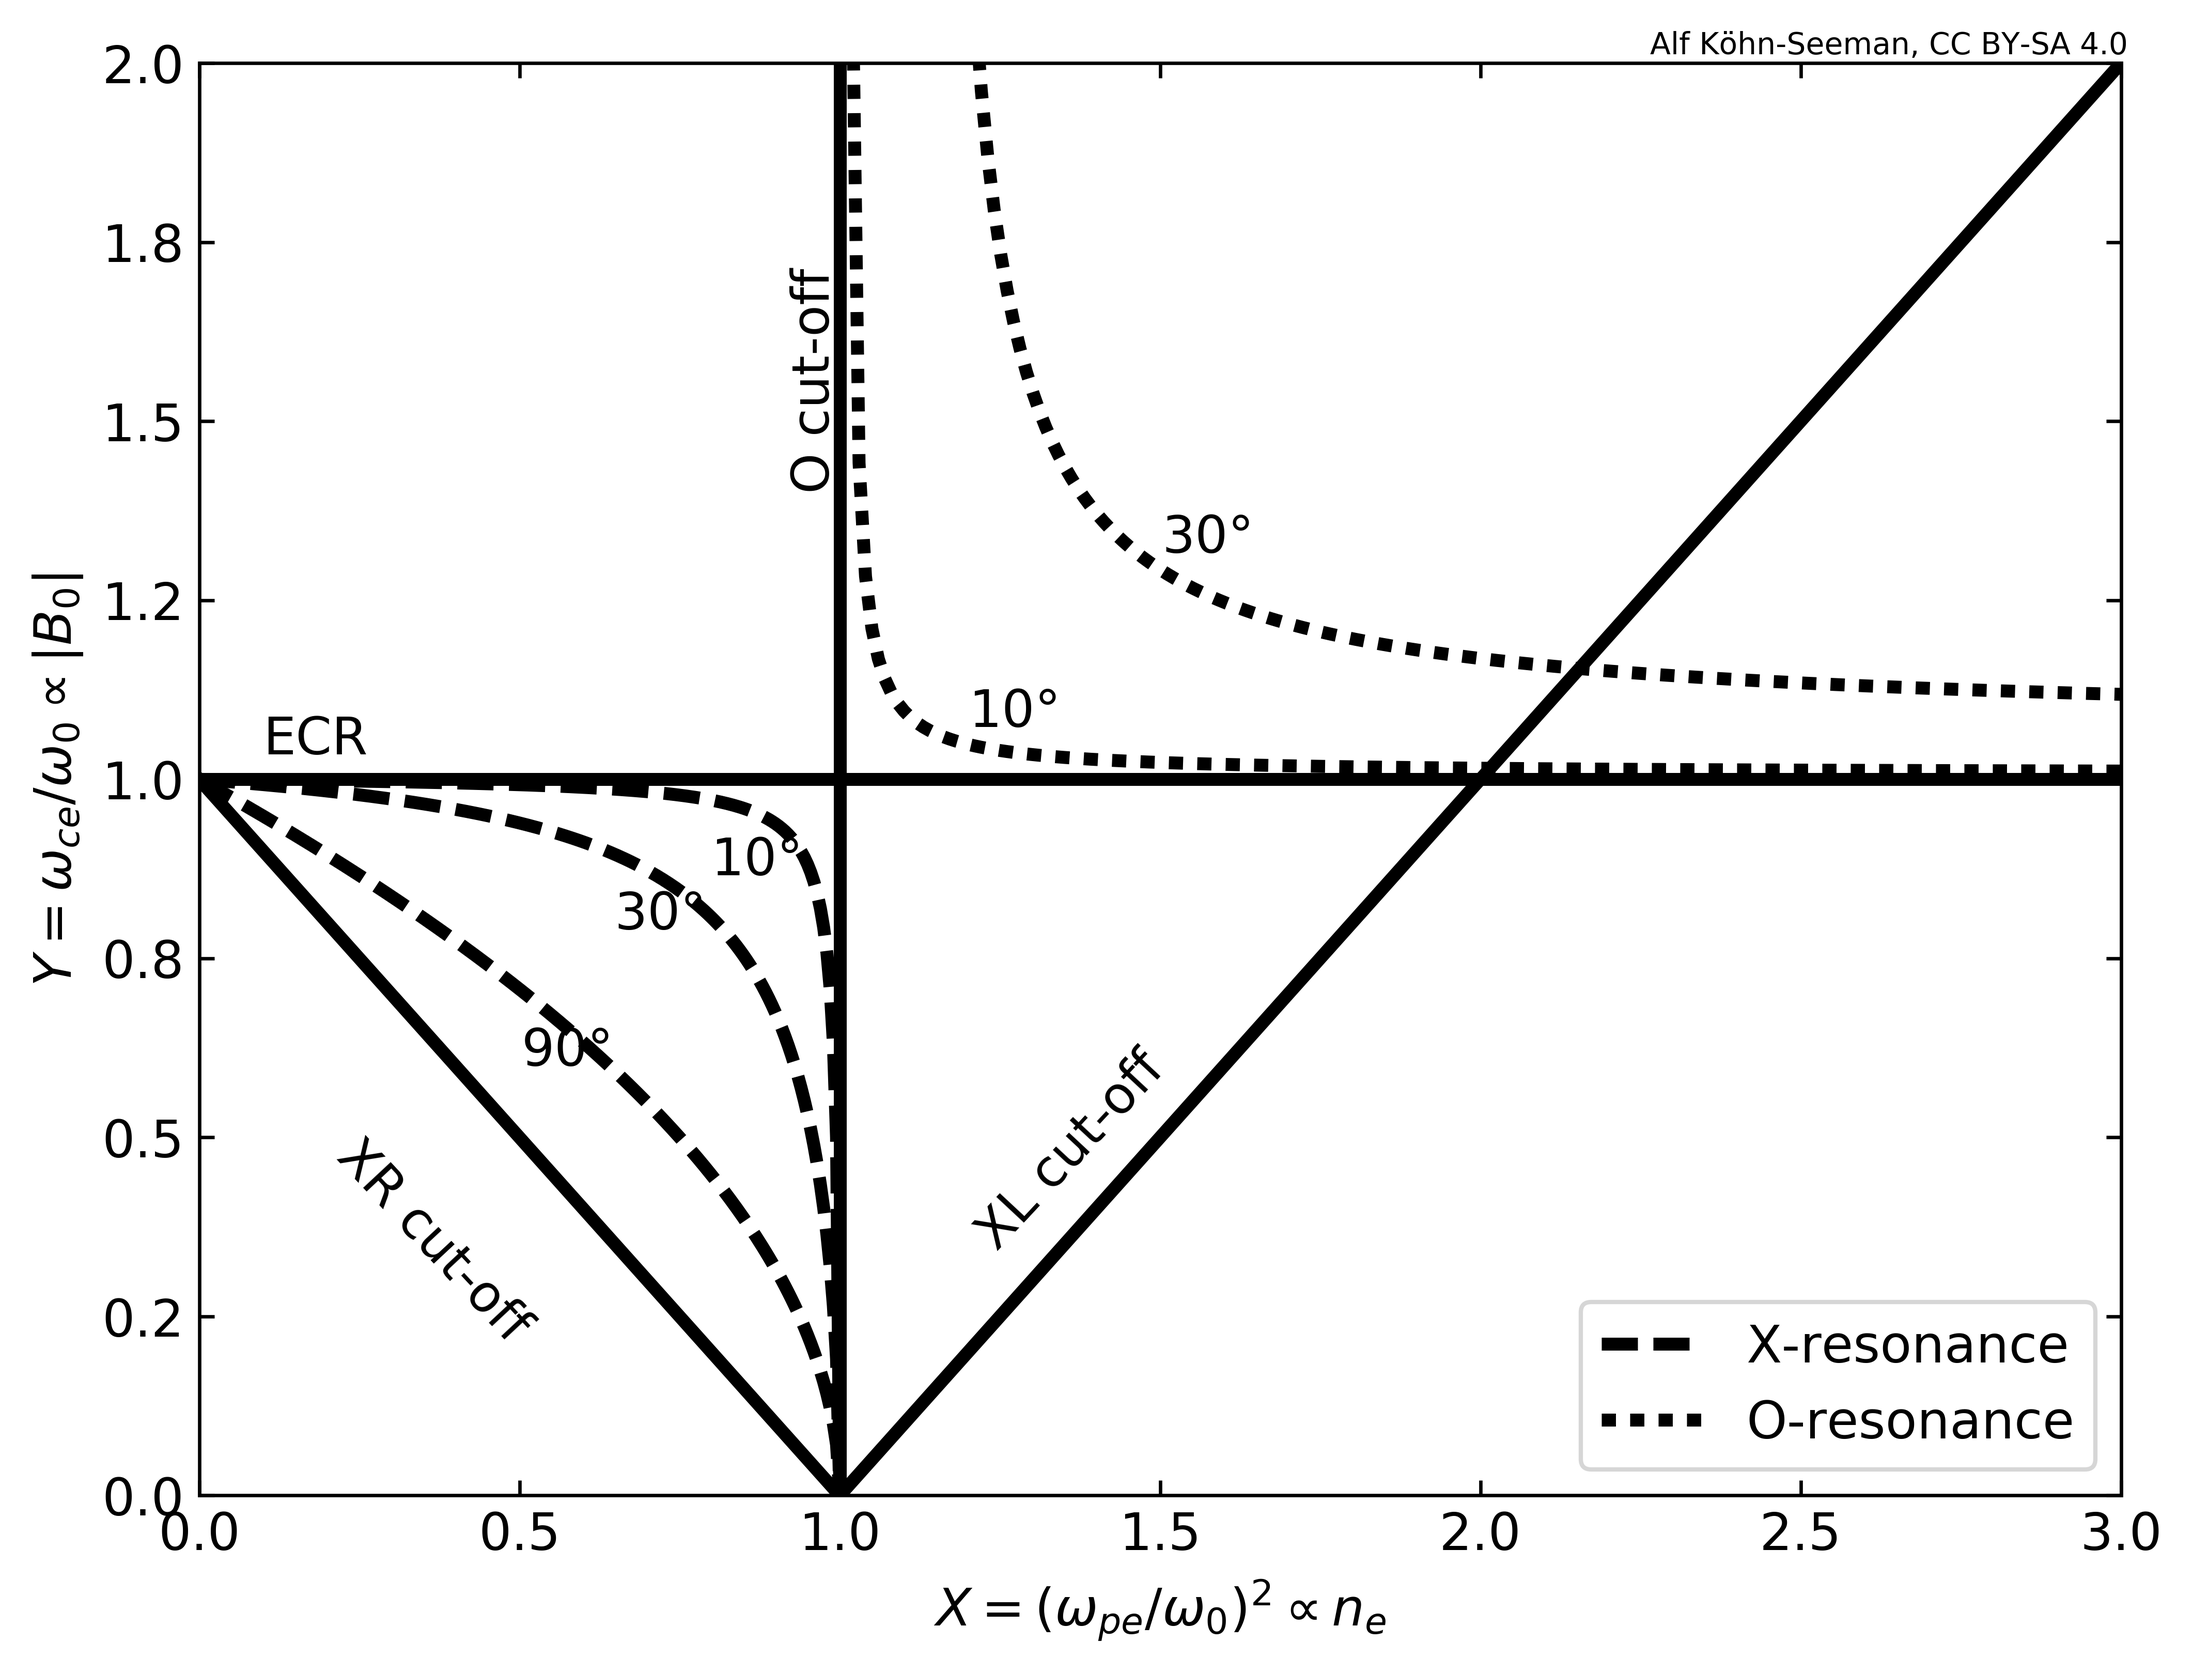
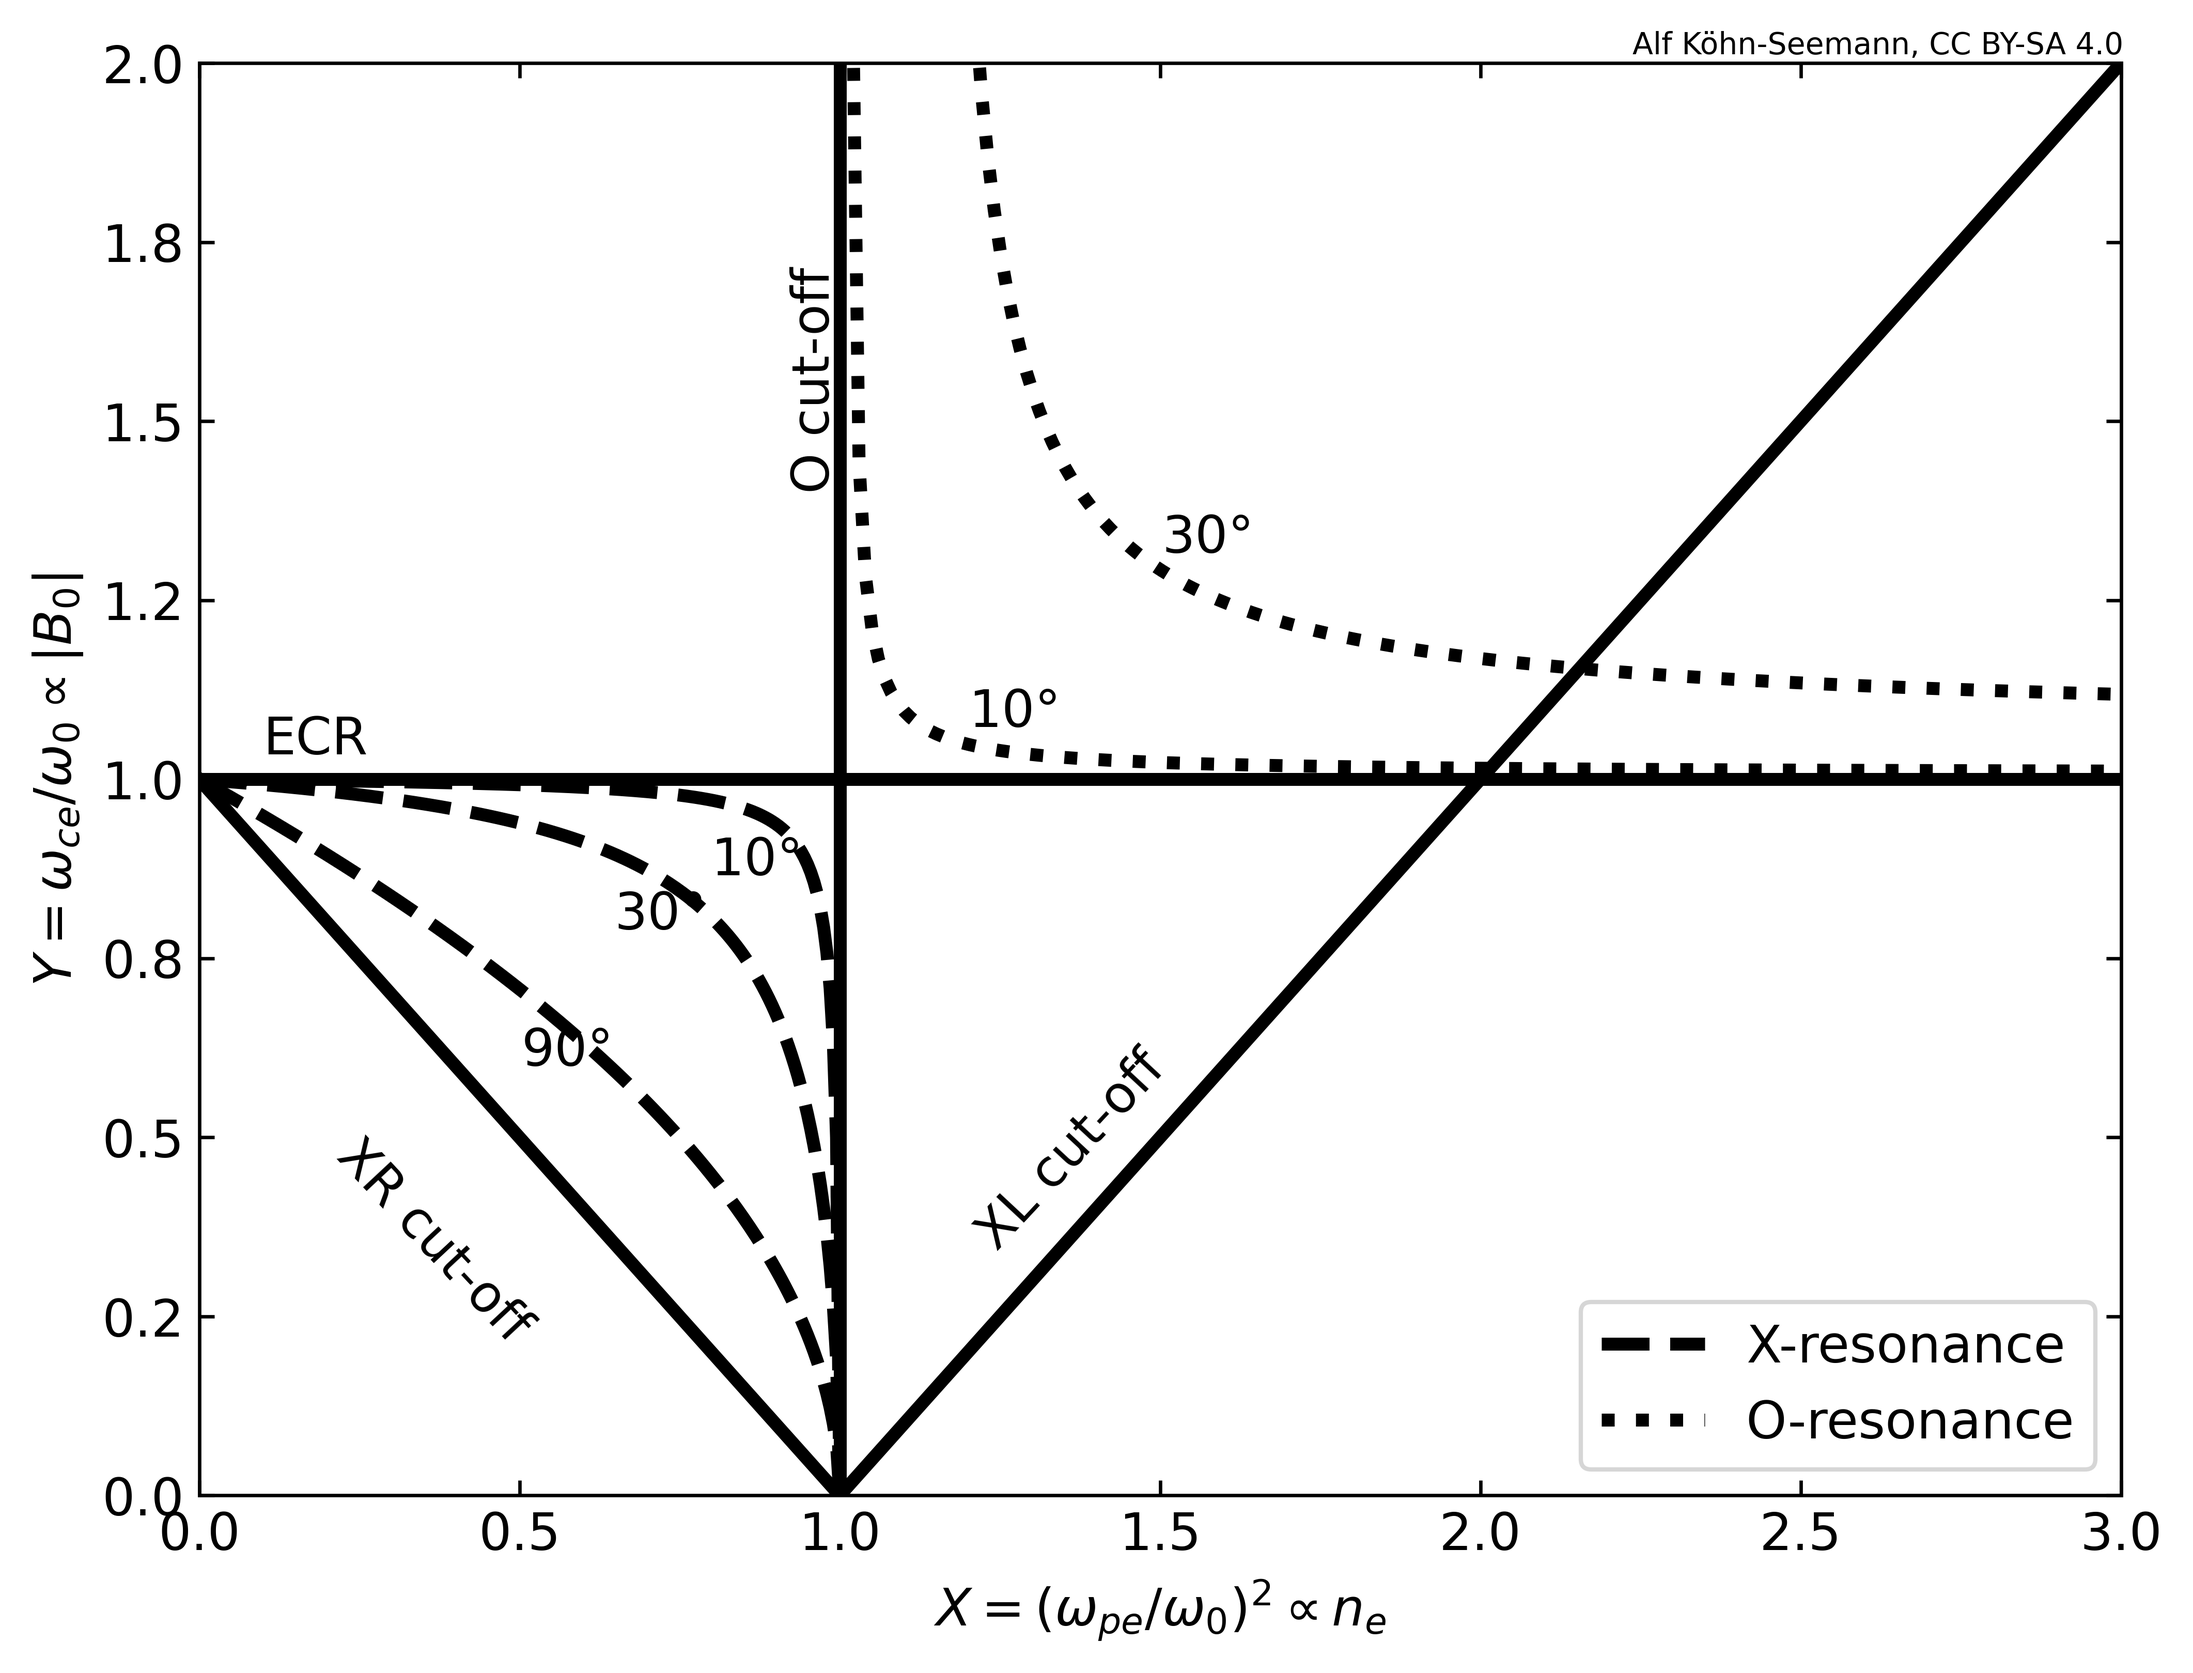
update position of credit string + update plot

diff --git a/CMA_diagram/CMA_diagram.py b/CMA_diagram/CMA_diagram.py
@@ -448,7 +448,7 @@ def main():
     ax1.xaxis.set_major_formatter(matplotlib.ticker.StrMethodFormatter("{x:.1f}"))
     ax1.yaxis.set_major_formatter(matplotlib.ticker.StrMethodFormatter("{x:.1f}"))
 
-    fig.text( .71, .885, credit_str, fontsize=7 )
+    fig.text( .703, .885, credit_str, fontsize=7 )
 
     make_plot( fname_plot=fname_plot )
     #;}}}
